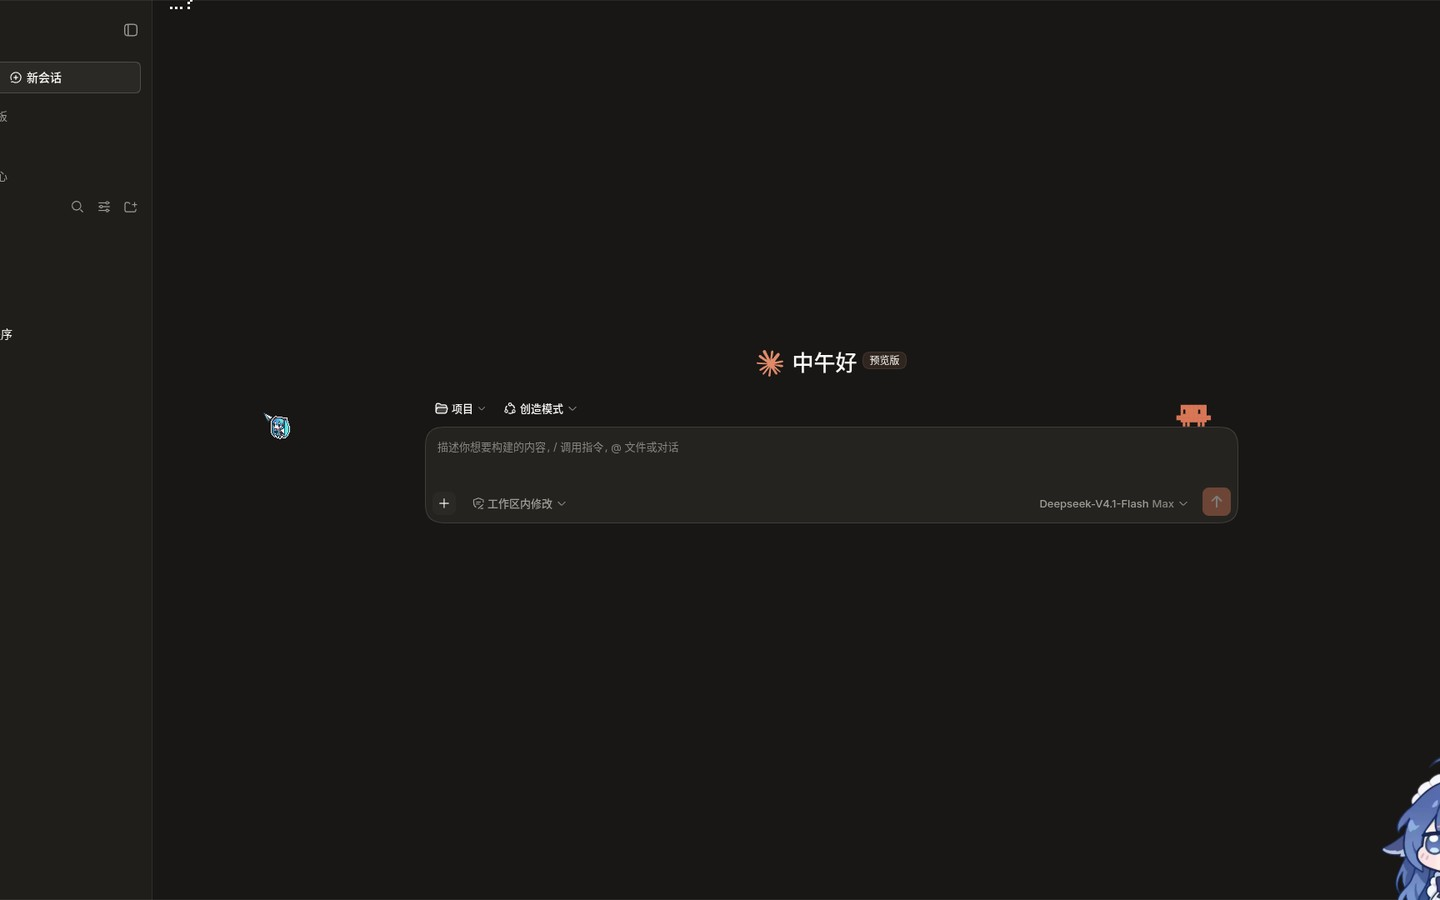
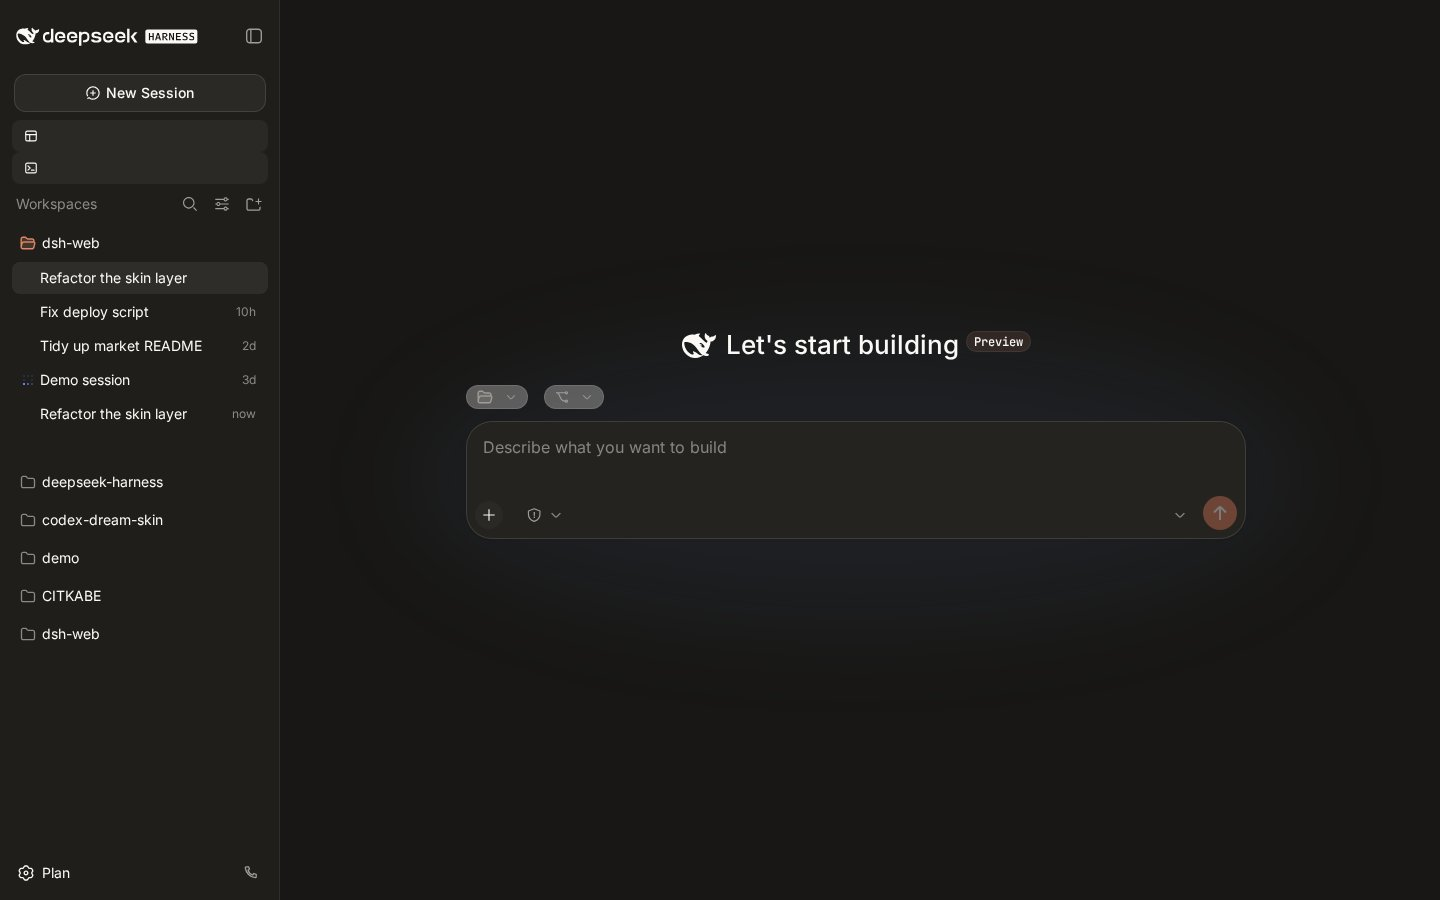
Re-shoot the previews and drop the dsh-web-only capture instructions
The two preview images were cropped: the sidebar stopped at x=152 instead of the
catalog's ~280, so the leftmost labels were cut mid-glyph and the New Session
pill lost its left rounding. Both are re-shot from the same official facade
render the rest of the catalog uses, so the geometry now matches (sidebar edge
279/280, measured against skins/island-life/preview/light.jpg).

The READMEs told readers to run pnpm market:build, open market/dist/preview.html
and node scripts/capture-previews. None of those exist in the skin-center
repository -- market/dist is a dsh-web artifact and capture-previews lives in
that checkout. Both files now describe where the renderer actually is.

diff --git a/claude/README.zh.md b/claude/README.zh.md
@@ -28,11 +28,12 @@
 
 ## 预览
 
-```sh
-pnpm market:build                            # 刷新市场产物（market/dist）
-open market/dist/preview.html?skin=claude&theme=light
-node scripts/capture-previews claude          # 重拍 preview/{light,dark}.jpg
-```
+`preview/light.jpg` 与 `preview/dark.jpg` 是 1440x900 的渲染图：官方外壳门面
+快照 + 注入本皮肤样式表。与目录内其余皮肤同一套渲染管线，因此侧栏与输入区的
+几何尺寸与它们一致。
+
+渲染器不属于本仓库：它位于 `dsh-web` 单体仓的 `scripts/capture-previews`，
+输出写到那一侧的皮肤目录，需要重拍时把生成的两张图拷回这里。
 
 ## 完整版本在仓库里
 
@@ -54,7 +55,7 @@ node scripts/capture-previews claude          # 重拍 preview/{light,dark}.jpg
   - `inter-normal.woff2`：Inter，Copyright 2016 The Inter Project Authors。
   - `jetbrains-mono-normal.woff2`：JetBrains Mono，Copyright 2020 The JetBrains Mono Project Authors。
   - 四者均为 Google Fonts 的 latin 子集构建，不含中文；中文走系统字体回退。
-- 预览图 `preview/light.jpg`、`preview/dark.jpg`：由本仓库的 `scripts/capture-previews` 渲染，含 DSH 官方门面快照，不含第三方美术素材。
+- 预览图 `preview/light.jpg`、`preview/dark.jpg`：由 `dsh-web` 构建的 `scripts/capture-previews` 渲染，含 DSH 官方门面快照，不含第三方美术素材。
 - 本皮肤复刻 claude.ai 应用界面的观感。「Claude」与「Anthropic」是 Anthropic PBC 的商标；本皮肤为风格致敬，与 Anthropic 无隶属或背书关系。Anthropic 实际使用的 Copernicus 与 StyreneB 为商业授权字体，未包含在内，此处以开源的 Newsreader 与 Inter 替代。
 
 ## 已知限制

diff --git a/claude/README.md b/claude/README.md
@@ -32,11 +32,13 @@ alongside the other themes in the skin center package.
 
 ## Preview
 
-```sh
-pnpm market:build                            # refresh market artifacts (market/dist)
-open market/dist/preview.html?skin=claude&theme=light
-node scripts/capture-previews claude          # re-shoot preview/{light,dark}.jpg
-```
+`preview/light.jpg` and `preview/dark.jpg` are 1440x900 renders of the official
+shell facade with this skin's stylesheet injected — the same pipeline the rest of
+the catalog uses, so the sidebar and composer geometry match the other skins.
+
+The renderer is not part of this repository; it lives in the `dsh-web` checkout
+as `scripts/capture-previews`, which shoots into that checkout's own skin
+directory. The two files here are the result, copied over.
 
 ## The full version lives in the repository
 
@@ -62,7 +64,7 @@ Installation and screenshots: <https://github.com/aklnaaw/dsh-claude-theme>.
   - `inter-normal.woff2`: Inter, Copyright 2016 The Inter Project Authors.
   - `jetbrains-mono-normal.woff2`: JetBrains Mono, Copyright 2020 The JetBrains Mono Project Authors.
   - All four are latin-subset builds from Google Fonts and contain no CJK; Chinese falls back to system fonts.
-- Preview images `preview/light.jpg` and `preview/dark.jpg`: rendered by this repository's
+- Preview images `preview/light.jpg` and `preview/dark.jpg`: rendered by the `dsh-web` build's
   `scripts/capture-previews` against the DSH official facade snapshot; no third-party artwork is used.
 - This skin reproduces the visual language of the claude.ai interface. "Claude" and "Anthropic" are
   trademarks of Anthropic PBC; this skin is a stylistic homage and is not affiliated with or endorsed by
